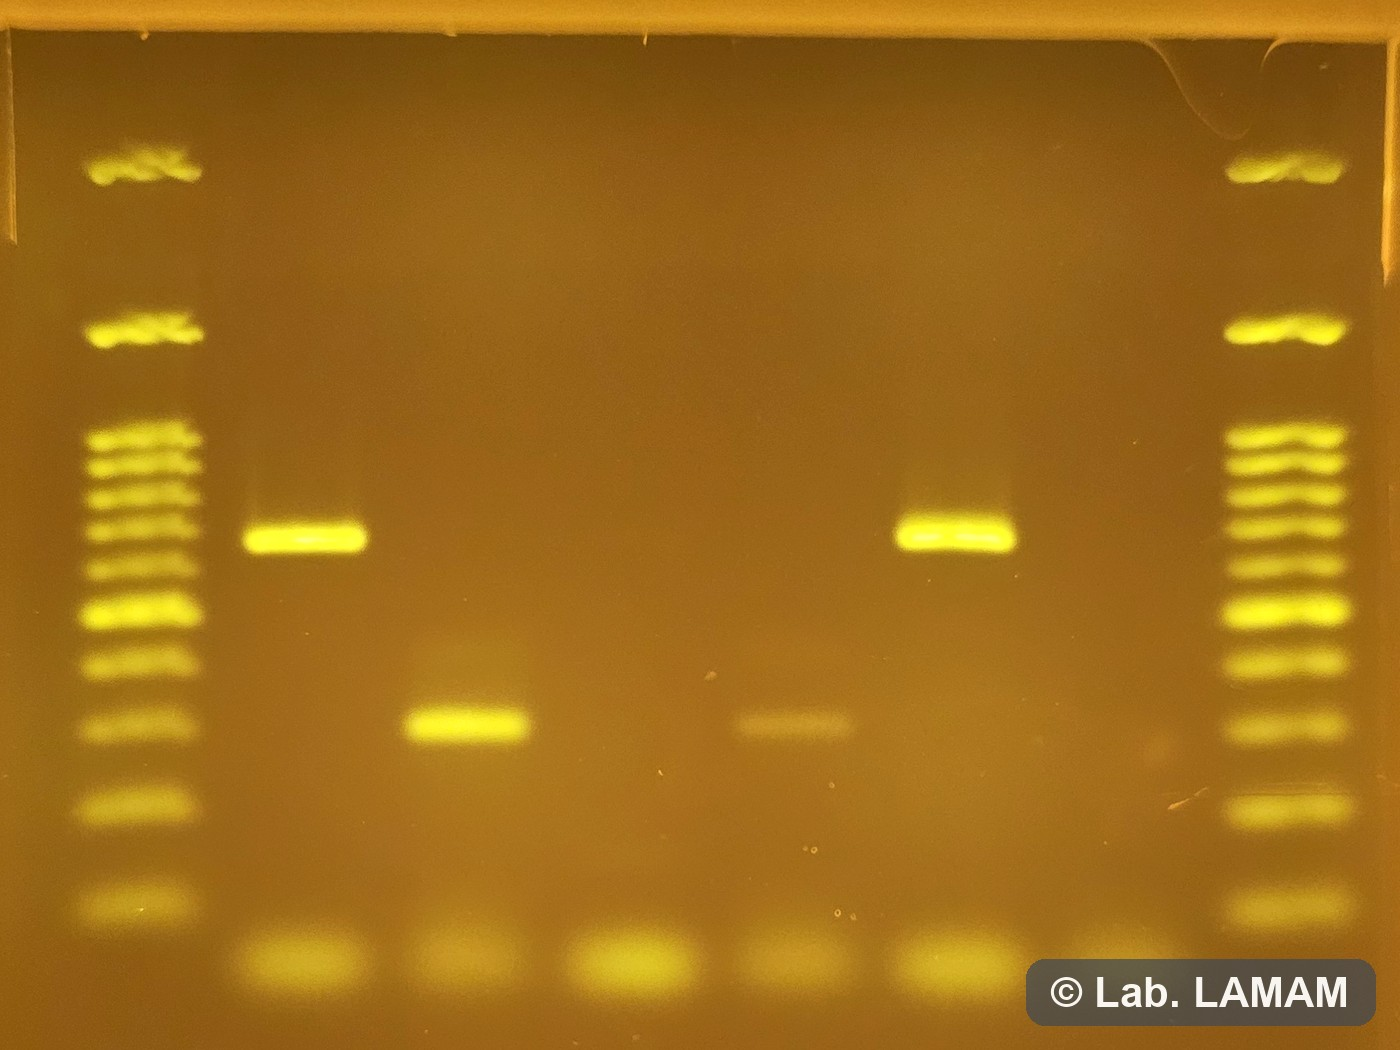
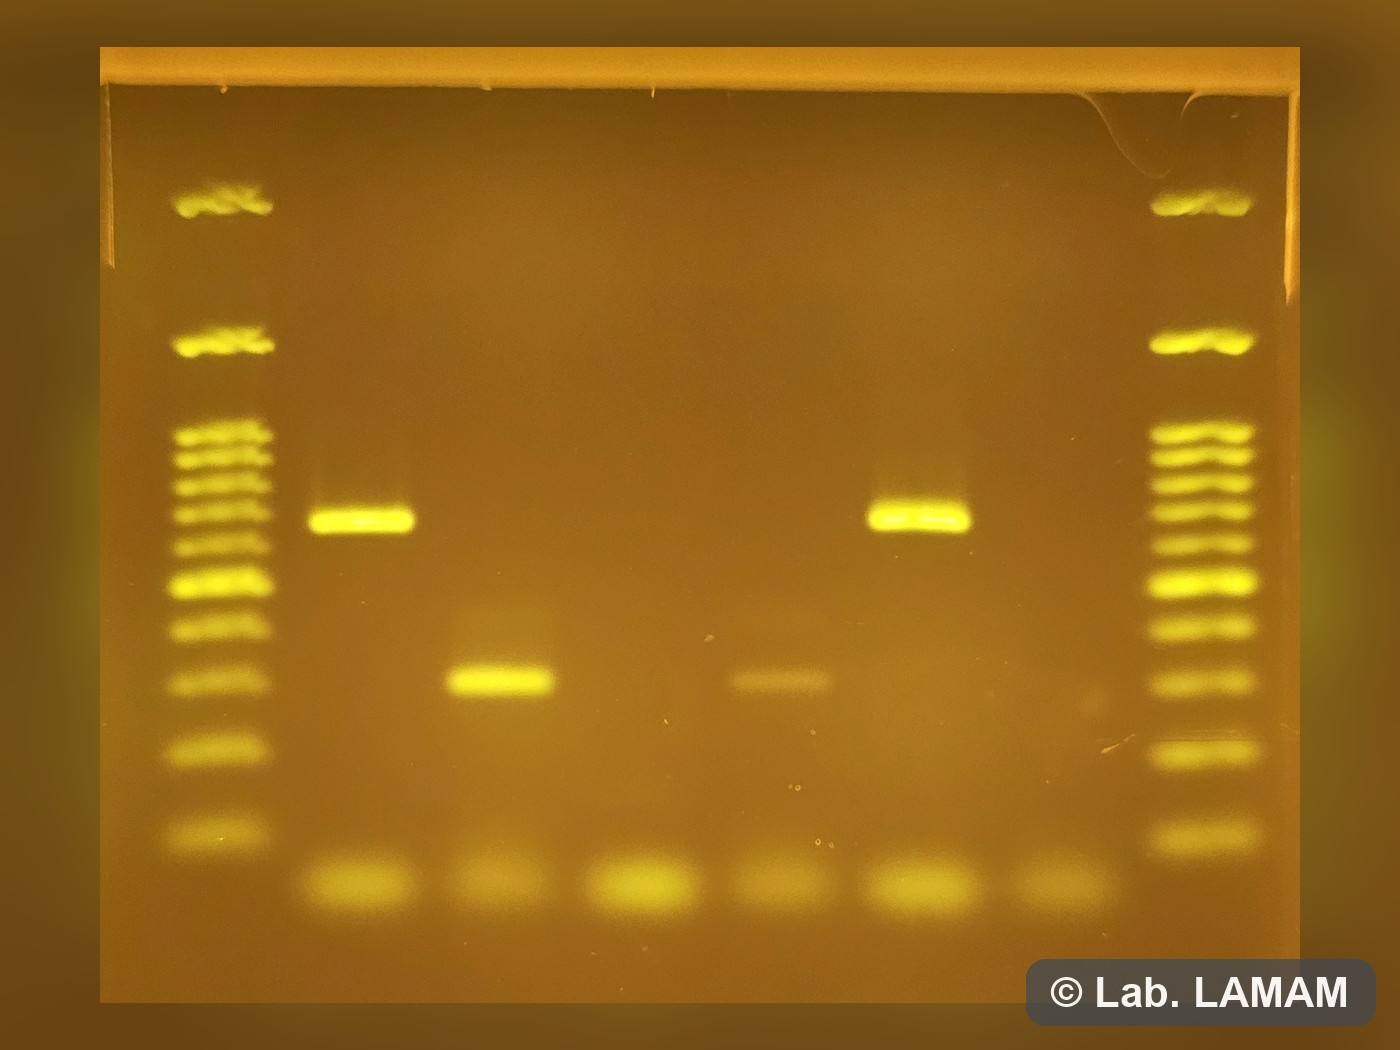
PCR: menos zoom (fundo desfocado do gel) + nematoides: solo ~500 g
- svc-pcr.jpg: gel com respiro, borda com fundo borrado do proprio gel
  (sem moldura solida); antes estava colado nas bordas
- fitonematoides: coleta de solo ~300 g -> ~500 g

diff --git a/servicos/fitonematoides.html b/servicos/fitonematoides.html
@@ -65,7 +65,7 @@
       <div class="coleta-card">
         <h3>Coleta e envio</h3>
         <ul class="coleta">
-<li><span class="ck"><svg viewBox="0 0 24 24" fill="none" stroke="currentColor" stroke-width="2.4" stroke-linecap="round" stroke-linejoin="round"><path d="M5 12l4 4L19 7"/></svg></span><span>Colete <b>solo (~300 g)</b> da região das raízes e uma porção de <b>raízes finas</b>;</span></li>
+<li><span class="ck"><svg viewBox="0 0 24 24" fill="none" stroke="currentColor" stroke-width="2.4" stroke-linecap="round" stroke-linejoin="round"><path d="M5 12l4 4L19 7"/></svg></span><span>Colete <b>solo (~500 g)</b> da região das raízes e uma porção de <b>raízes finas</b>;</span></li>
 <li><span class="ck"><svg viewBox="0 0 24 24" fill="none" stroke="currentColor" stroke-width="2.4" stroke-linecap="round" stroke-linejoin="round"><path d="M5 12l4 4L19 7"/></svg></span><span>Mantenha a amostra <b>úmida e refrigerada</b> — nunca deixe secar;</span></li>
 <li><span class="ck"><svg viewBox="0 0 24 24" fill="none" stroke="currentColor" stroke-width="2.4" stroke-linecap="round" stroke-linejoin="round"><path d="M5 12l4 4L19 7"/></svg></span><span>Use saco plástico identificado e envie no mesmo dia, se possível;</span></li>
 <li><span class="ck"><svg viewBox="0 0 24 24" fill="none" stroke="currentColor" stroke-width="2.4" stroke-linecap="round" stroke-linejoin="round"><path d="M5 12l4 4L19 7"/></svg></span><span>Informe a cultura e os sintomas observados.</span></li>
